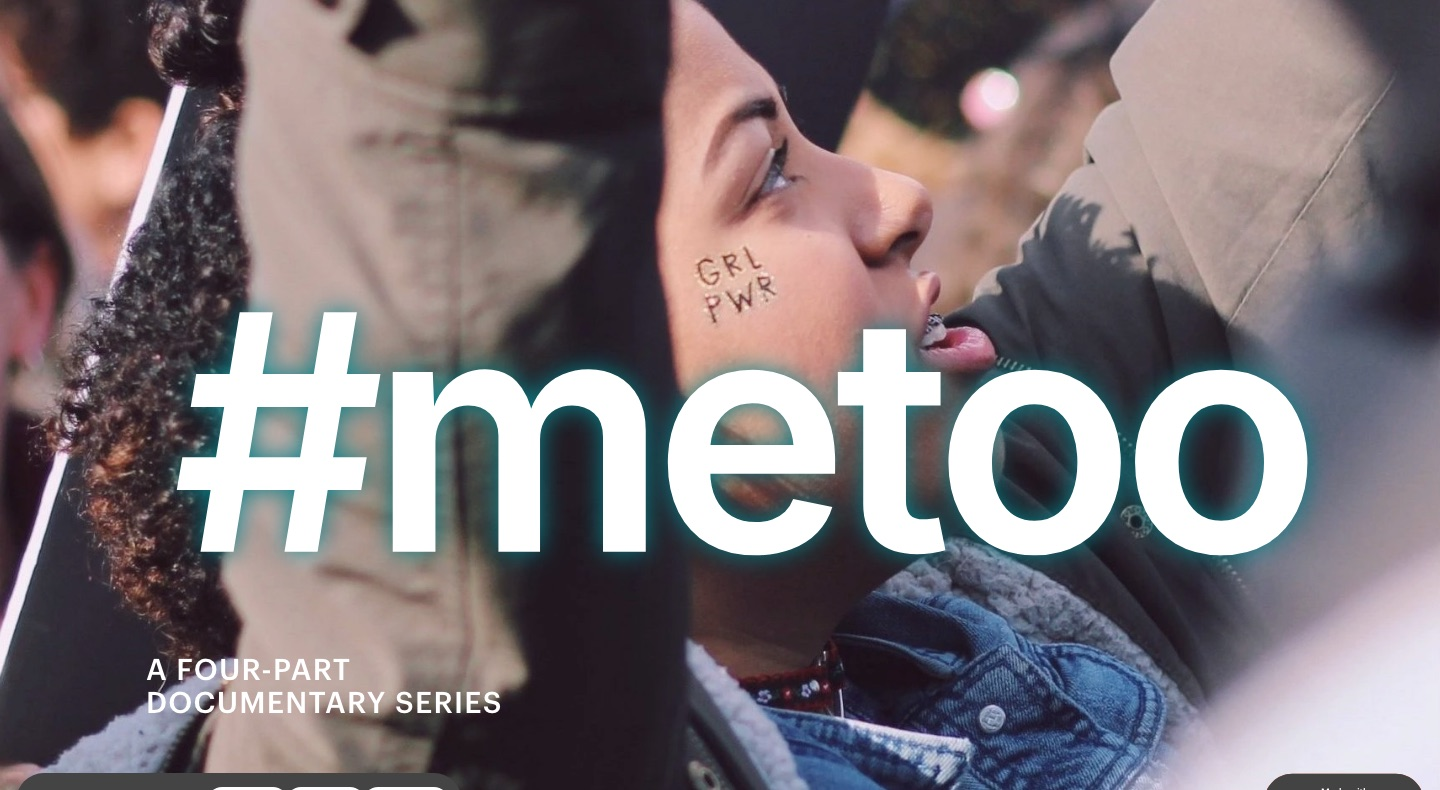
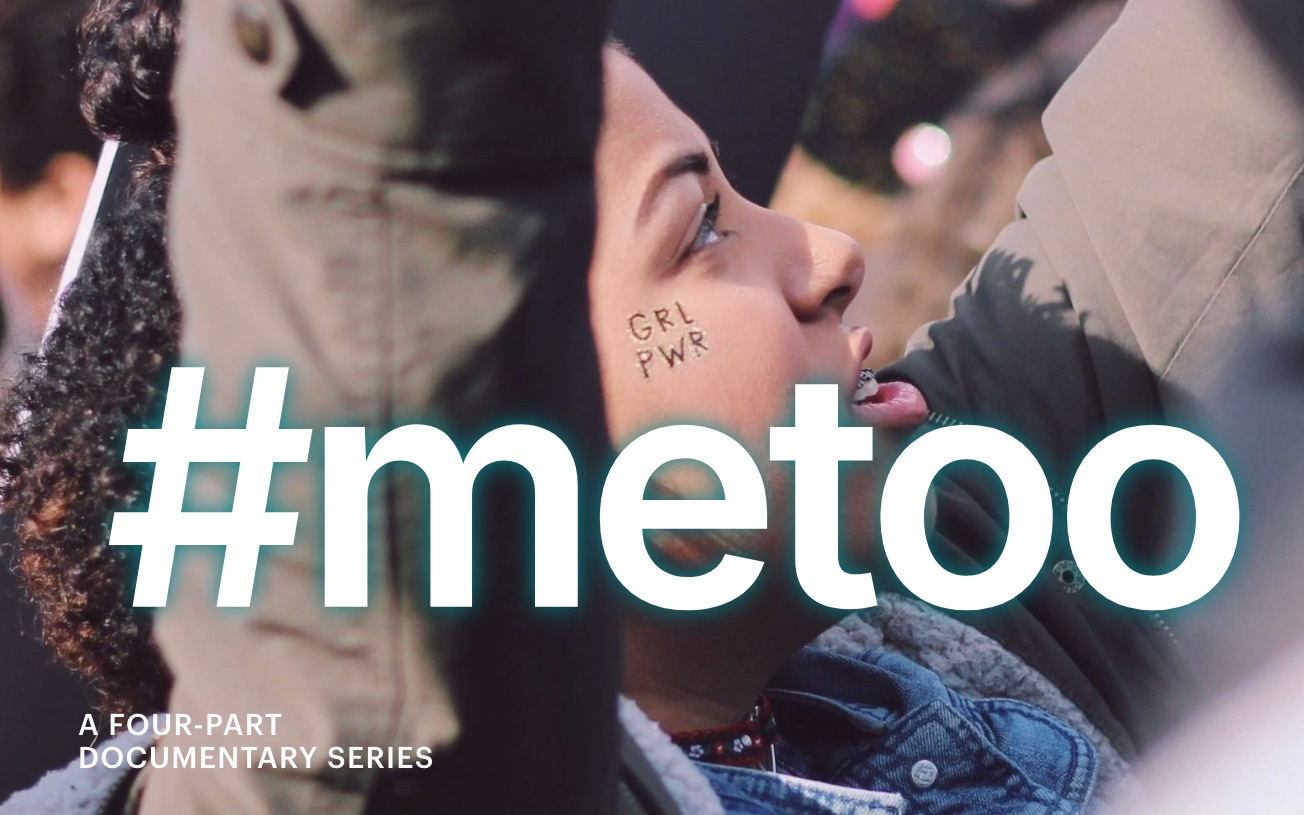
Update grid gap in main.page for improved spacing between entries

diff --git a/style.css b/style.css
@@ -196,7 +196,7 @@ main.page { max-width: 56rem; margin: 0 auto; padding: 3rem 1.25rem 6rem; }
   padding: 1.25rem 0 0;
   border-top: 1px solid var(--ink);
   display: grid;
-  gap: 0.25rem;
+  gap: 2.4rem; /* one line of space between entries */
   font-family: var(--serif);
   font-size: 1.5rem;
 }
